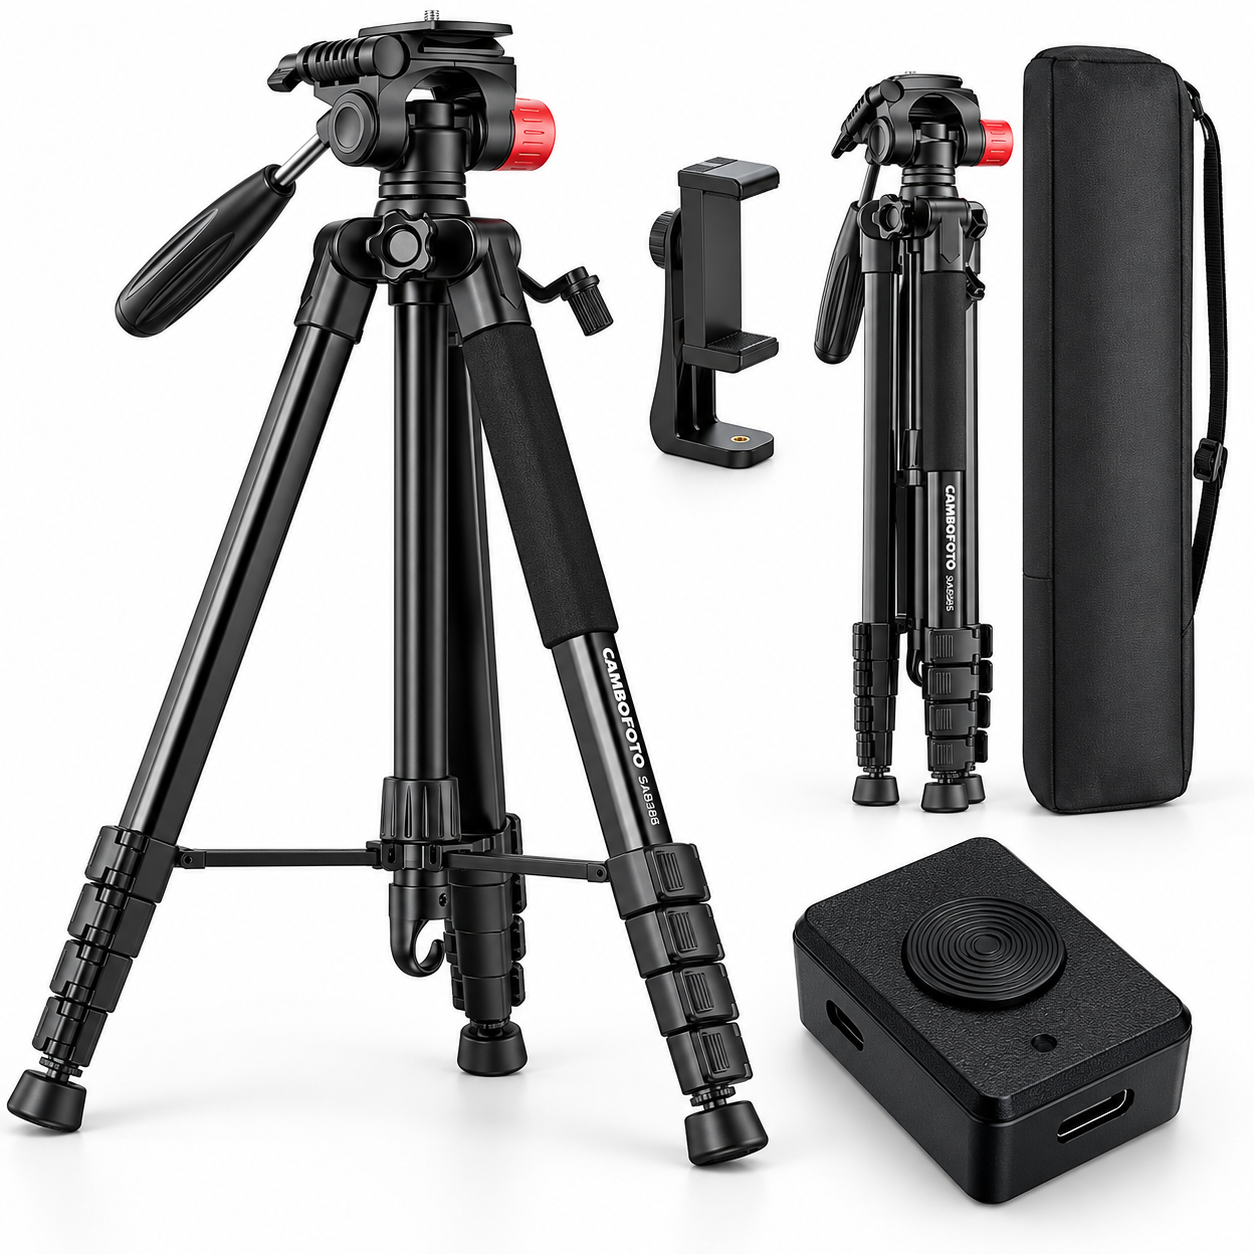
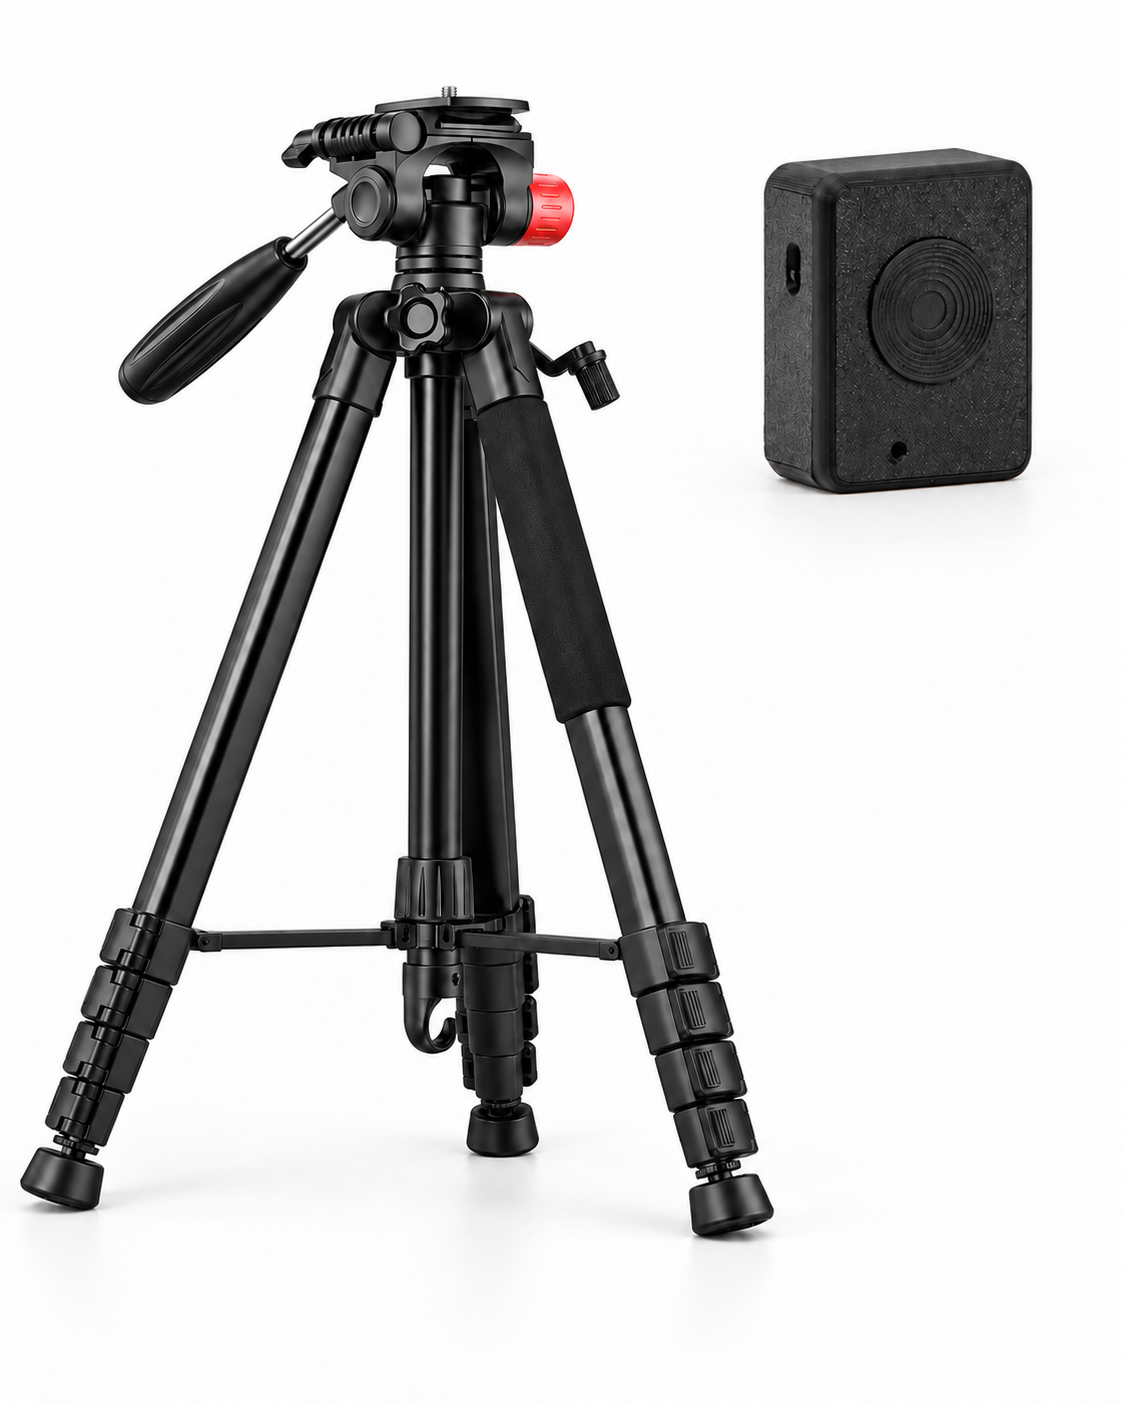
updates

diff --git a/website/public/styles.css b/website/public/styles.css
@@ -94,9 +94,7 @@ h3 { font-size: 1.35rem; }
 .button-row.centered { justify-content: center; }
 .text-link { color: var(--primary); font-weight: 800; text-underline-offset: 5px; }
 
-.hero { padding-bottom: 80px; }
-.hero-copy { padding-block: 52px 30px; }
-.hero .button-row { margin-top: 0; }
+.hero { padding-bottom: 0; }
 .hero-visual { width: 100%; background: var(--surface-blue); }
 .hero-visual img { width: 100%; height: auto; }
 .placeholder-notice { margin-top: 28px; padding-left: 14px; border-left: 3px solid var(--accent); color: var(--ink-soft); font-size: 0.82rem; max-width: 540px; }
@@ -108,9 +106,9 @@ h3 { font-size: 1.35rem; }
 .section-heading h2 { max-width: 680px; margin-bottom: 0; }
 .product-grid { display: grid; grid-template-columns: repeat(2, minmax(0, 1fr)); gap: 28px; }
 .product-card { overflow: hidden; border-radius: var(--radius); background: var(--paper); box-shadow: 0 1px 0 var(--line); }
-.product-image-link { display: grid; aspect-ratio: 1.18; place-items: center; overflow: hidden; background: var(--surface-blue); }
+.product-image-link { display: grid; aspect-ratio: 4 / 5; place-items: center; padding: 12px; overflow: hidden; background: var(--surface-blue); }
 .product-image { width: 100%; height: 100%; object-fit: contain; transition: transform 450ms cubic-bezier(.2,.8,.2,1); }
-.product-card:hover .product-image { transform: scale(1.025); }
+.product-card:hover .product-image { transform: none; }
 .product-card-body { padding: 28px; }
 .product-card h3 a { text-decoration: none; }
 .product-card p { color: var(--ink-soft); }
@@ -303,8 +301,7 @@ h3 { font-size: 1.35rem; }
   .site-header { padding-inline: 14px; }
   .main-nav { gap: 9px; font-size: .72rem; white-space: nowrap; }
   .product-detail, .app-promo { grid-template-columns: 1fr; }
-  .hero { padding-bottom: 60px; }
-  .hero-copy { padding-block: 34px 24px; }
+  .hero { padding-bottom: 0; }
   .product-grid { grid-template-columns: 1fr; }
   .story-grid, .how-it-works-grid { grid-template-columns: 1fr; gap: 20px; }
   .testimonials-heading { display: block; }
@@ -323,7 +320,7 @@ h3 { font-size: 1.35rem; }
 
 @media (max-width: 560px) {
   h1 { font-size: 3.1rem; }
-  .hero { padding-bottom: 48px; }
+  .hero { padding-bottom: 0; }
   .marquee { gap: 16px; padding-inline: 12px; font-size: .67rem; letter-spacing: .11em; }
   .marquee i { width: 5px; height: 5px; }
   .section-heading { display: block; }

diff --git a/website/src/data/products.ts b/website/src/data/products.ts
@@ -42,8 +42,11 @@ export const products: Product[] = [
     priceCents: 7999,
     currency: "usd",
     image: "/images/bundle.png",
-    imageAlt: "Placeholder artwork for a future ClipIt bundle",
-    images: [{ src: "/images/bundle.png", alt: "Placeholder artwork for a future ClipIt bundle" }],
+    imageAlt: "ClipIt Button next to an open tripod",
+    images: [
+      { src: "/images/bundle.png", alt: "ClipIt Button next to an open tripod" },
+      { src: "/images/bundle-accessories.png", alt: "Phone holder, folded tripod, and carry bag" }
+    ],
     features: [
       "Included in bundle: The ClipIt Button and Tripod",
       "PLACEHOLDER: Bundle item two",
